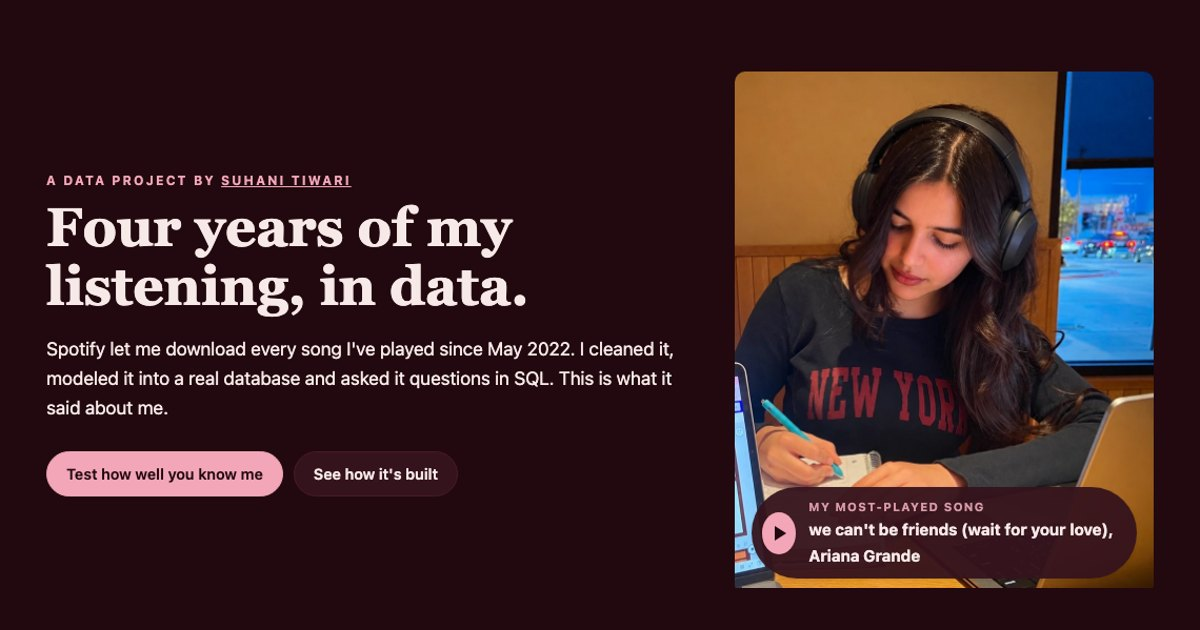
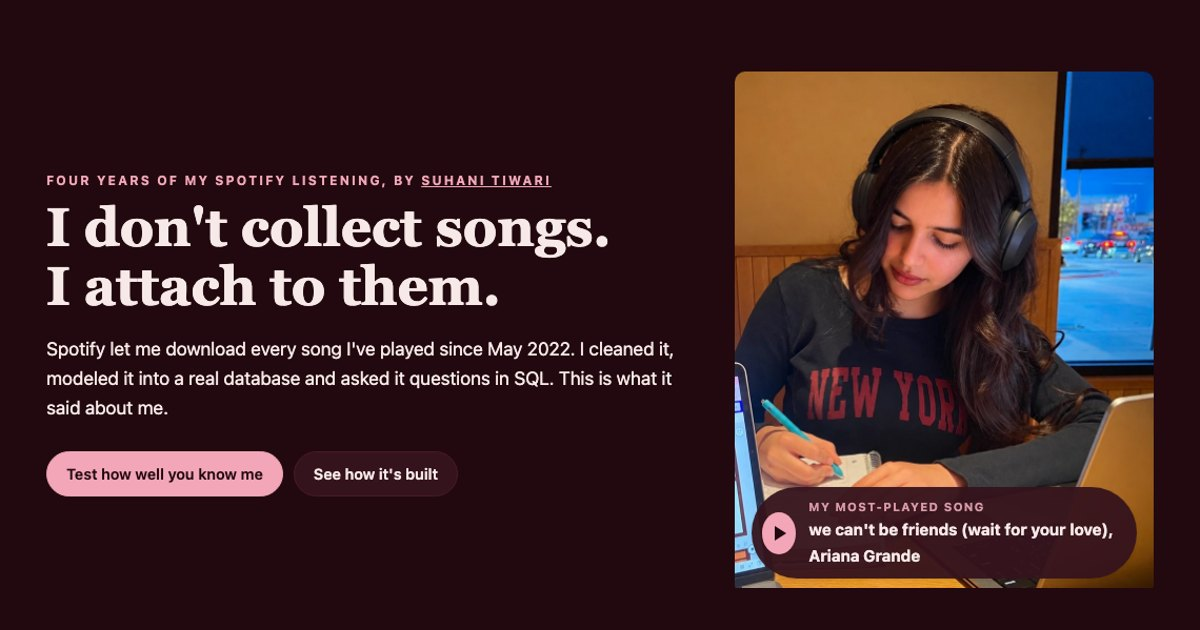
Headline: I don't collect songs. I attach to them.

Changed region(s): [[0.0308, 0.2714, 0.5242, 0.5127]]

diff --git a/app/static/index.html b/app/static/index.html
@@ -8,7 +8,7 @@
     <meta name="theme-color" content="#22090F">
     <meta name="author" content="Suhani Tiwari">
     <meta property="og:type" content="website">
-    <meta property="og:title" content="Four years of my listening, in data | Suhani Tiwari">
+    <meta property="og:title" content="I don't collect songs. I attach to them. | Suhani Tiwari">
     <meta property="og:description" content="182,293 Spotify records, cleaned in Python, modeled into PostgreSQL and asked questions in SQL. Guess my stats, watch my top songs and see if I listen to your favorite artist.">
     <meta property="og:url" content="https://listening-history.onrender.com/">
     <meta property="og:image" content="https://listening-history.onrender.com/static/share-card.jpg">
@@ -41,8 +41,8 @@
     <!-- HELLO -->
     <header class="hero">
         <div class="hero-text">
-            <p class="eyebrow">A data project by <a href="https://suhanitiwari.com">Suhani Tiwari</a></p>
-            <h1>Four years of my listening, in data.</h1>
+            <p class="eyebrow">Four years of my Spotify listening, by <a href="/about">Suhani Tiwari</a></p>
+            <h1>I don't collect songs.<br>I attach to them.</h1>
             <p class="lede">Spotify let me download every song I've played since May 2022. I cleaned it, modeled it into a real database and asked it questions in SQL. This is what it said about me.</p>
             <div class="hero-actions">
                 <a class="pill solid" href="#play">Test how well you know me</a>
